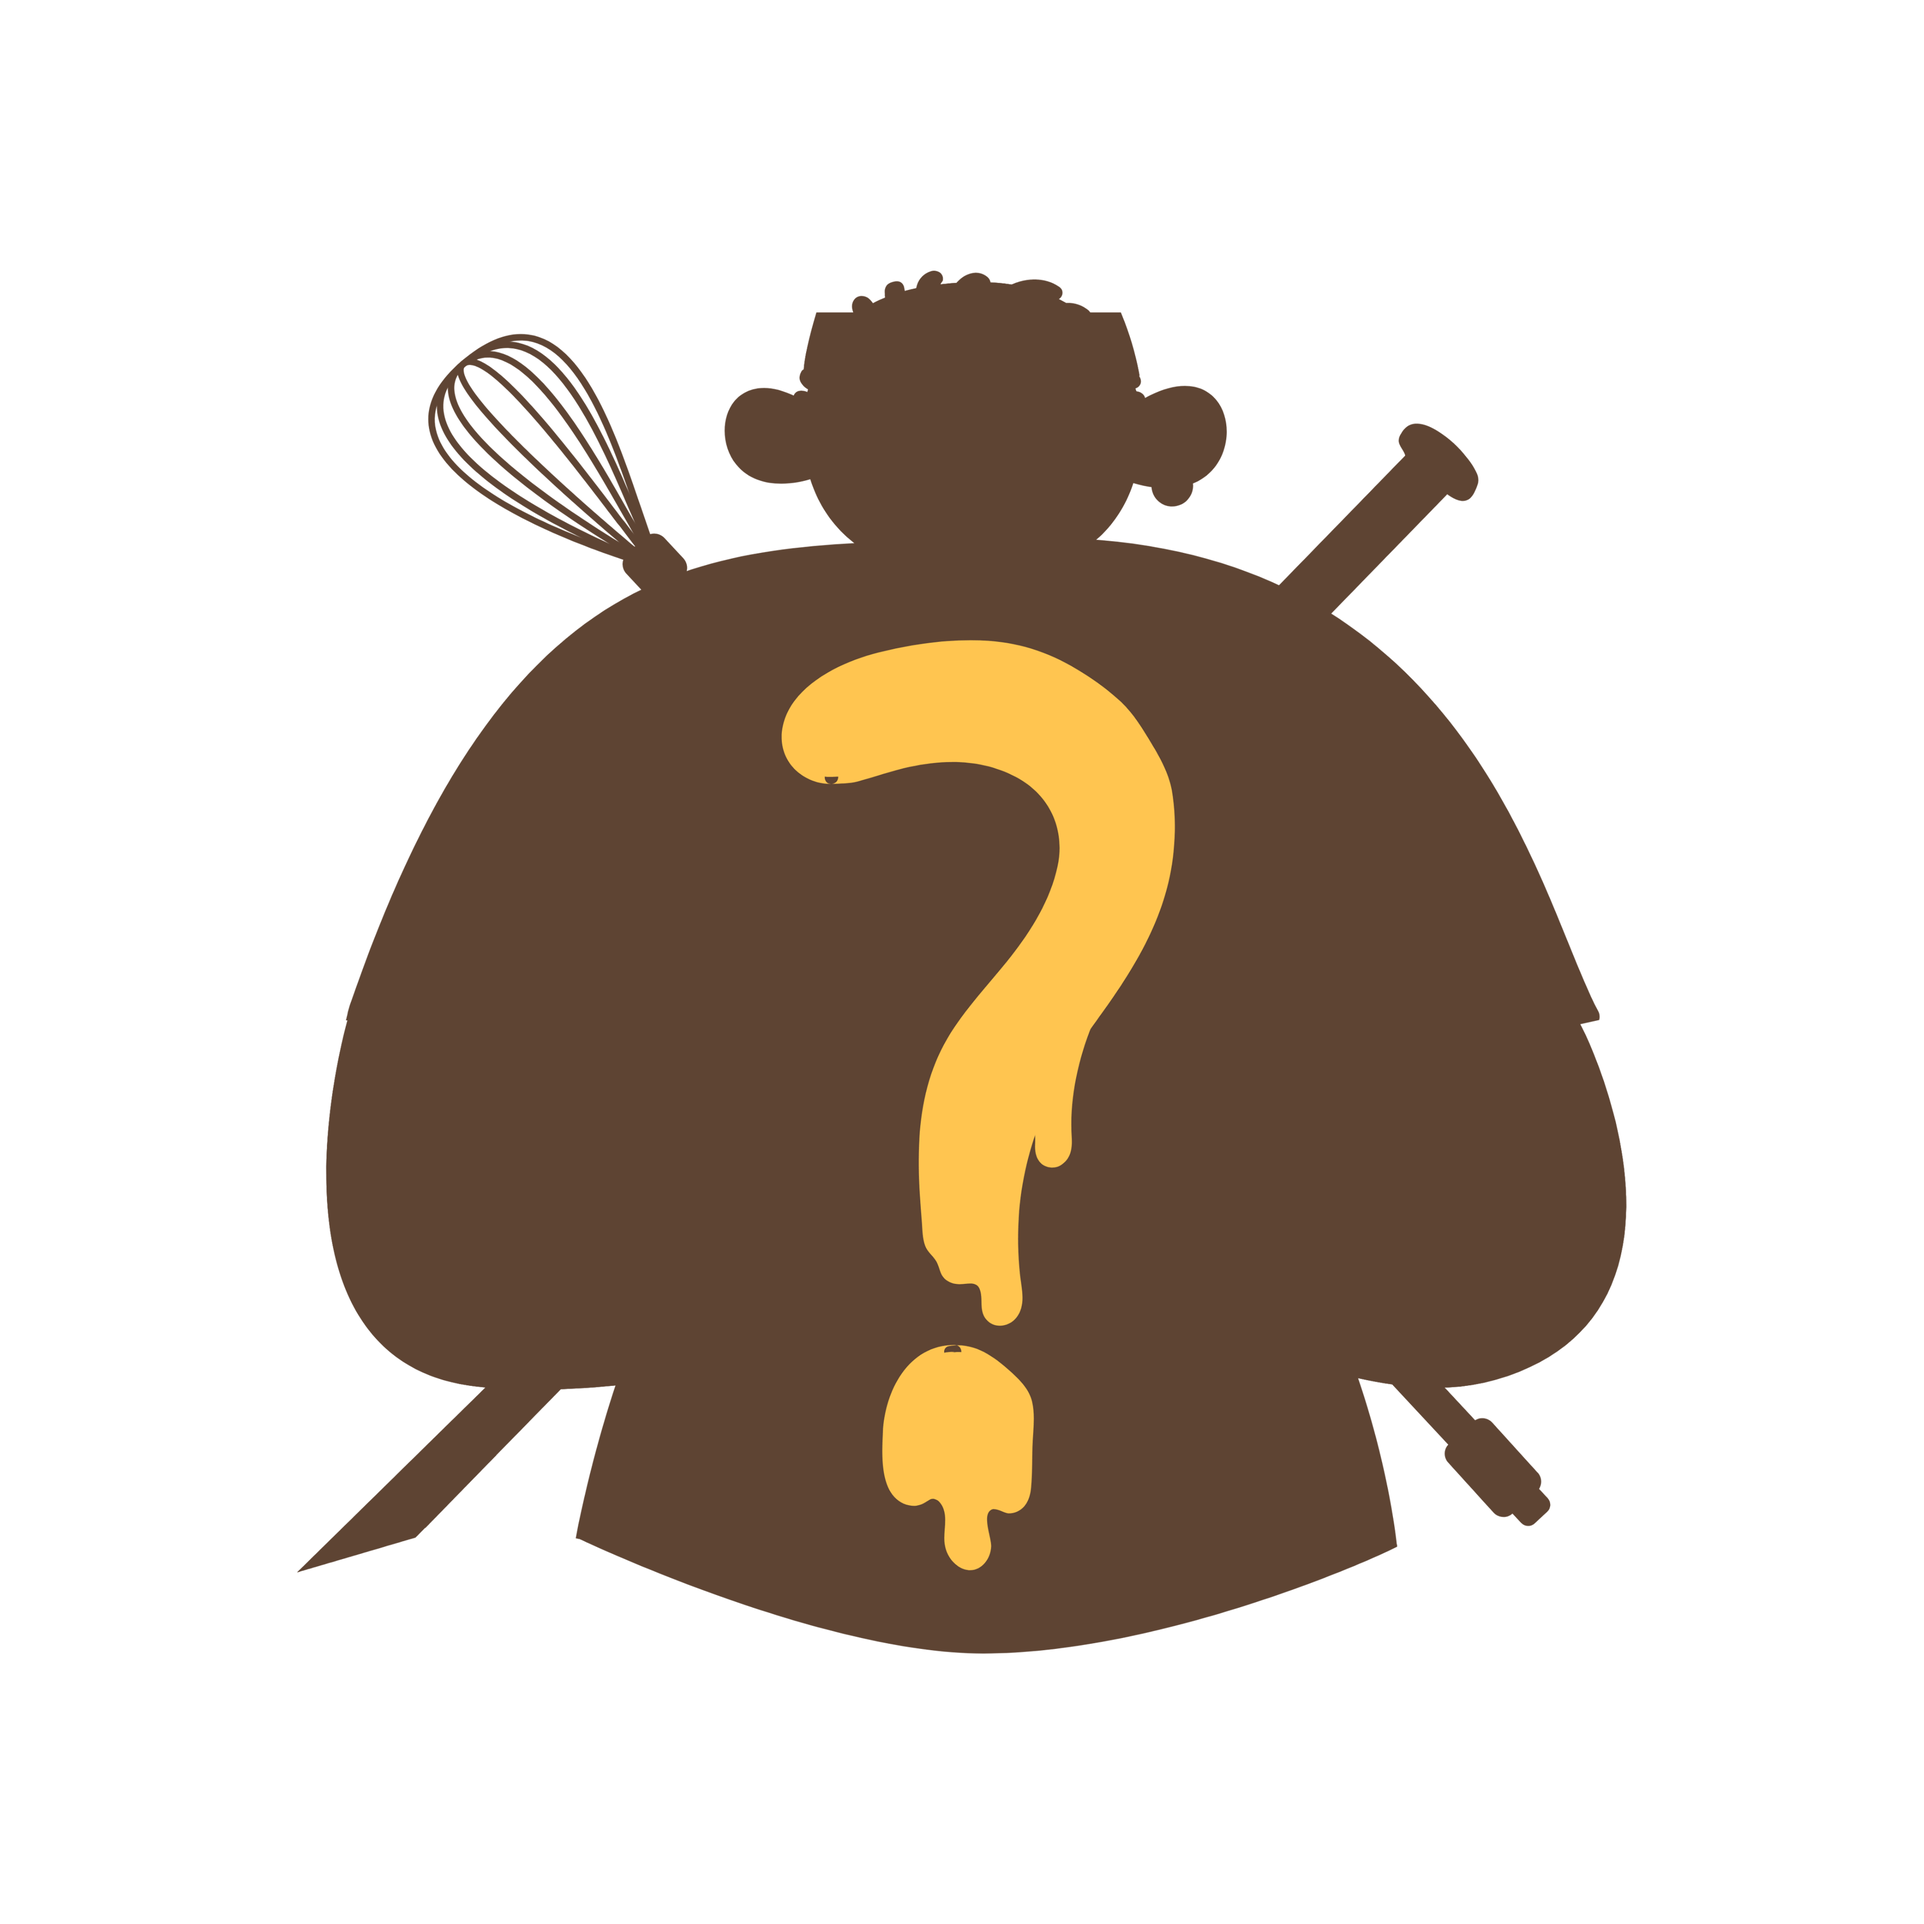
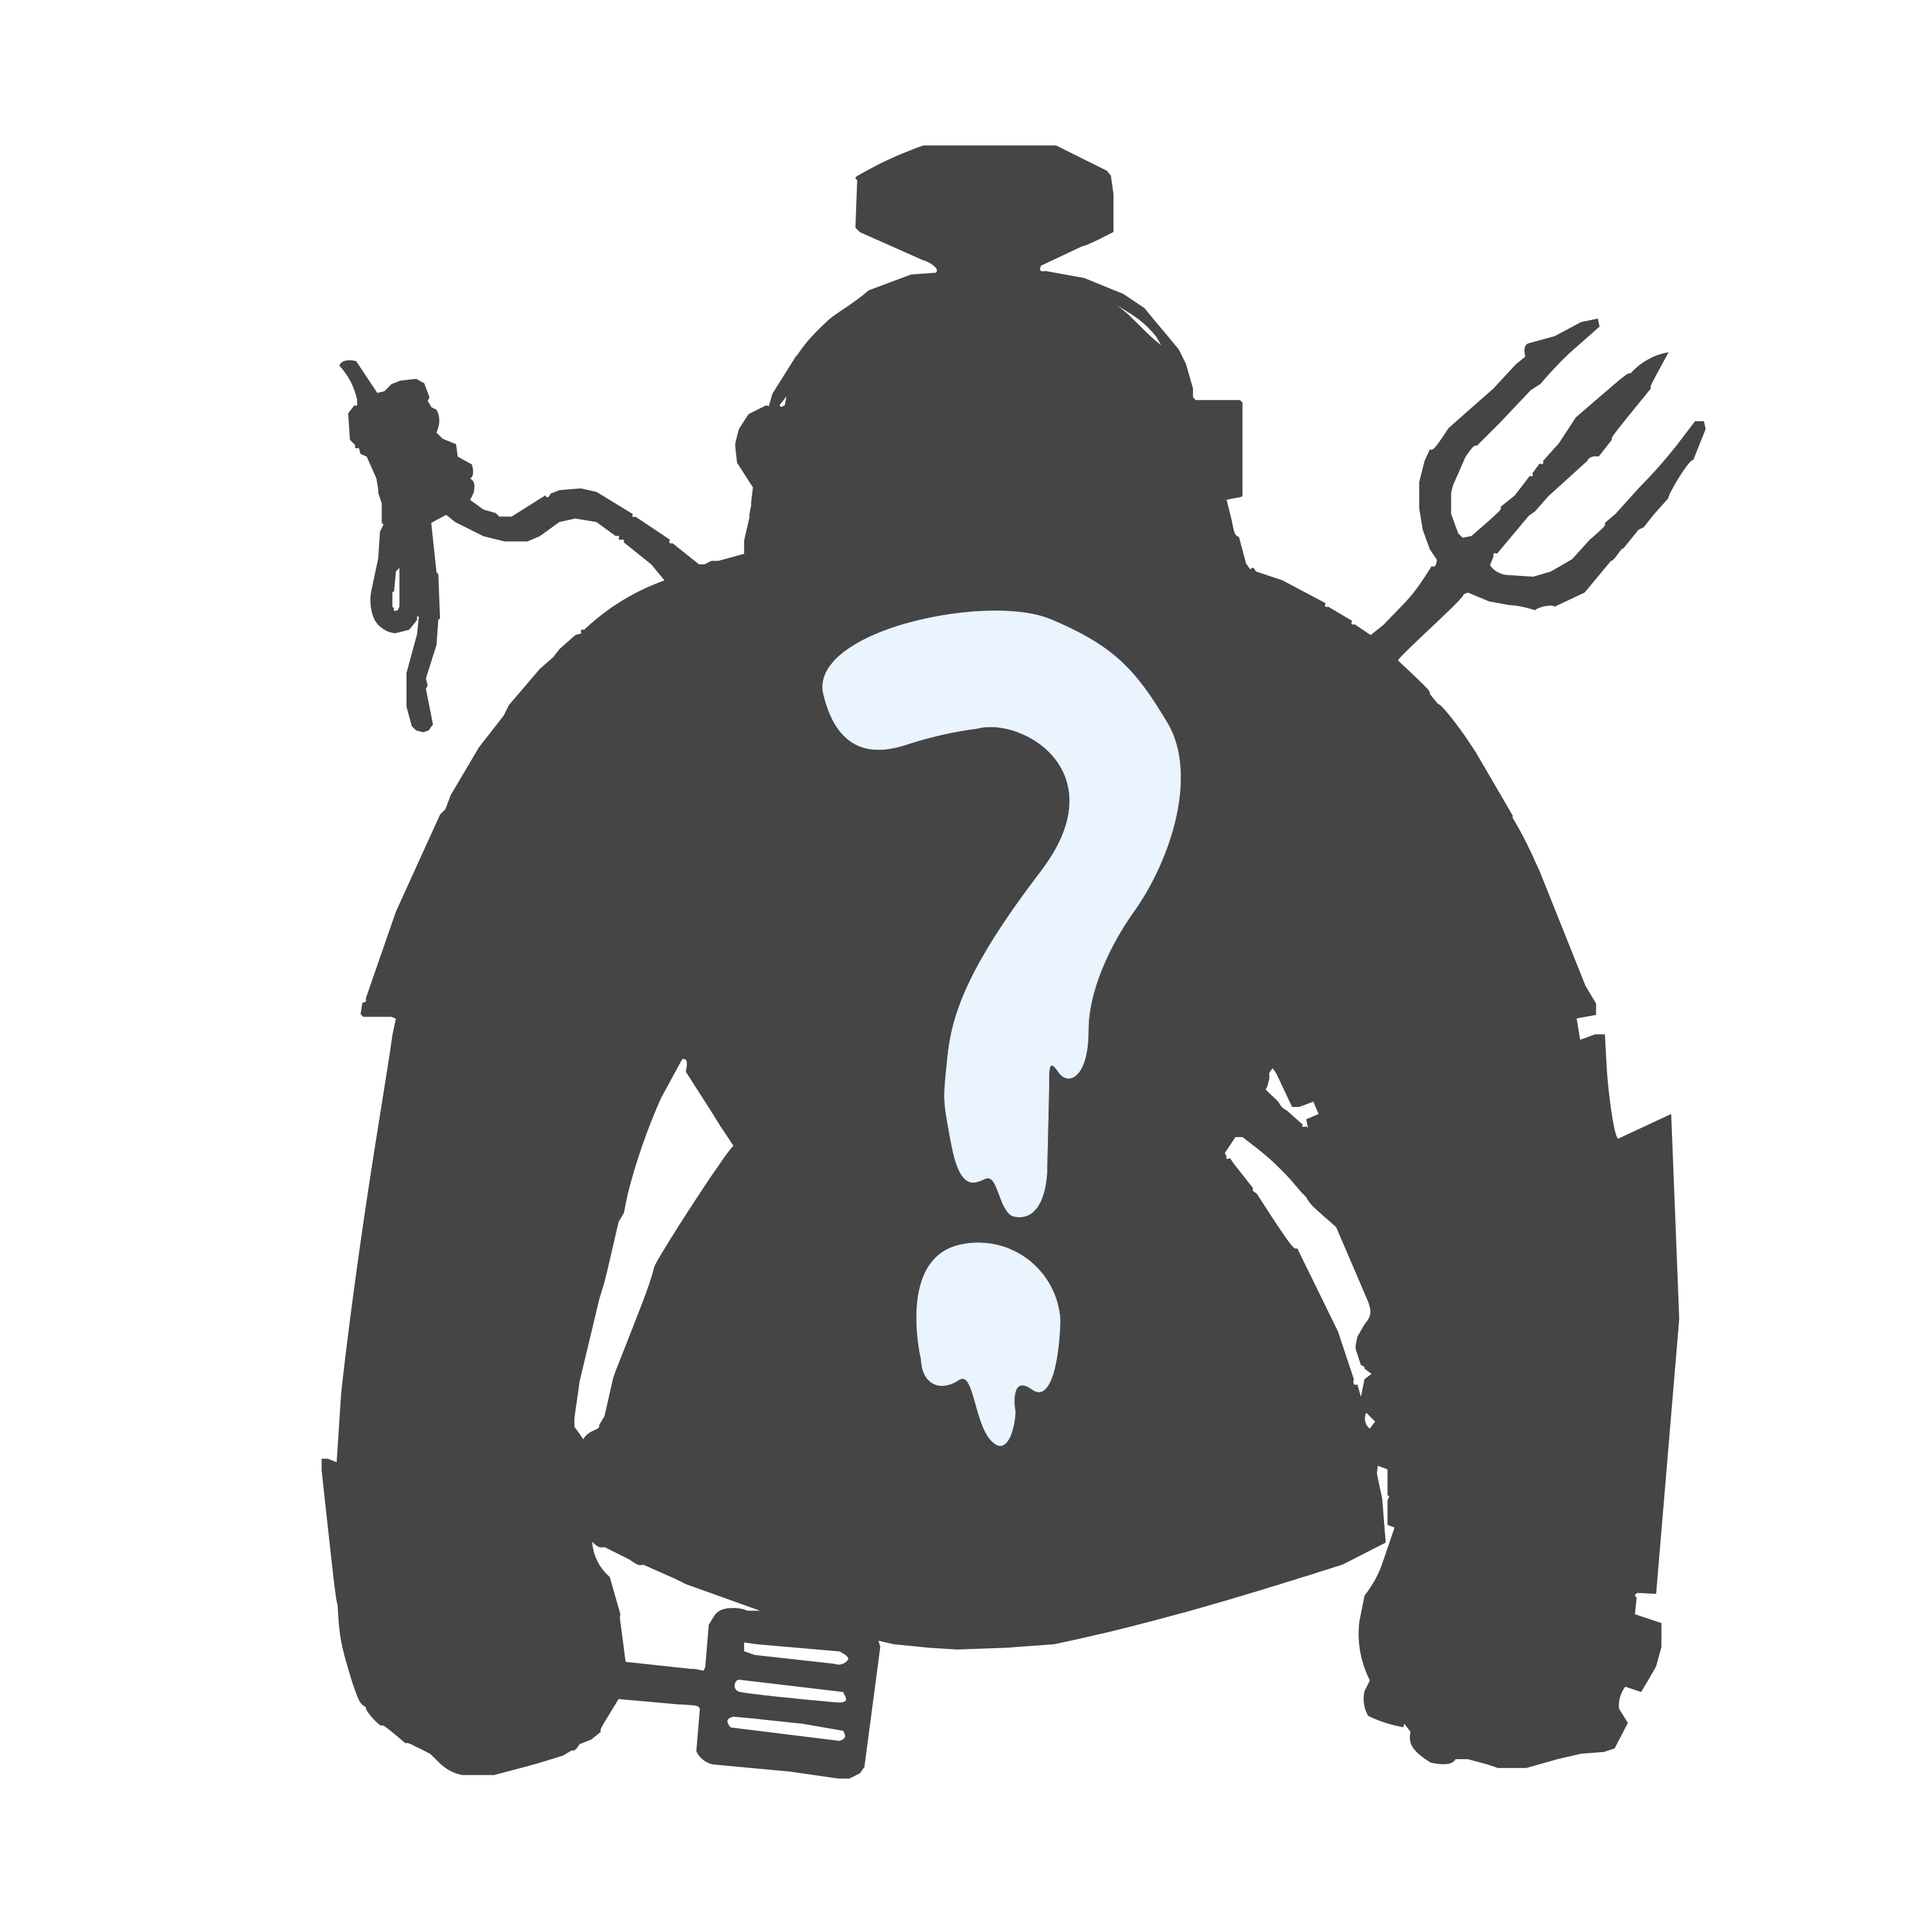
Change CHEF placeholder

diff --git a/src/components/web3/NftCard.jsx b/src/components/web3/NftCard.jsx
@@ -9,7 +9,8 @@ import {
 import { useNftWithMetadata } from "../../hooks/chef/useNftWithMetadata";
 import { theme } from "../../utils/theme";
 import placeholder from "../../assets/components/web3/nft-card/placeholder.png";
-import BuyChef from "../../assets/Buy_CHEF.png";
+import BuyChef from "../../assets/components/web3/nft-card/placeholder.png";
+import BuyChef2 from "../../assets/components/web3/nft-card/placeholder@x2.png";
 import CurrencyAromaCartoonIcon from "../../components/icons/CurrencyAromaCartoonIcon";
 
 /**
@@ -68,9 +69,10 @@ function NftCard({
             {firstCard ? (
               <>
                 <picture>
-                  <source srcSet={BuyChef} />
+                  <source srcSet={BuyChef, BuyChef2} />
                   <img
-                    style={{ width: "100%" }}
+                    width="100%"
+                    height="auto"
                     src={BuyChef}
                     alt={"Buy CHEF"}
                   />
